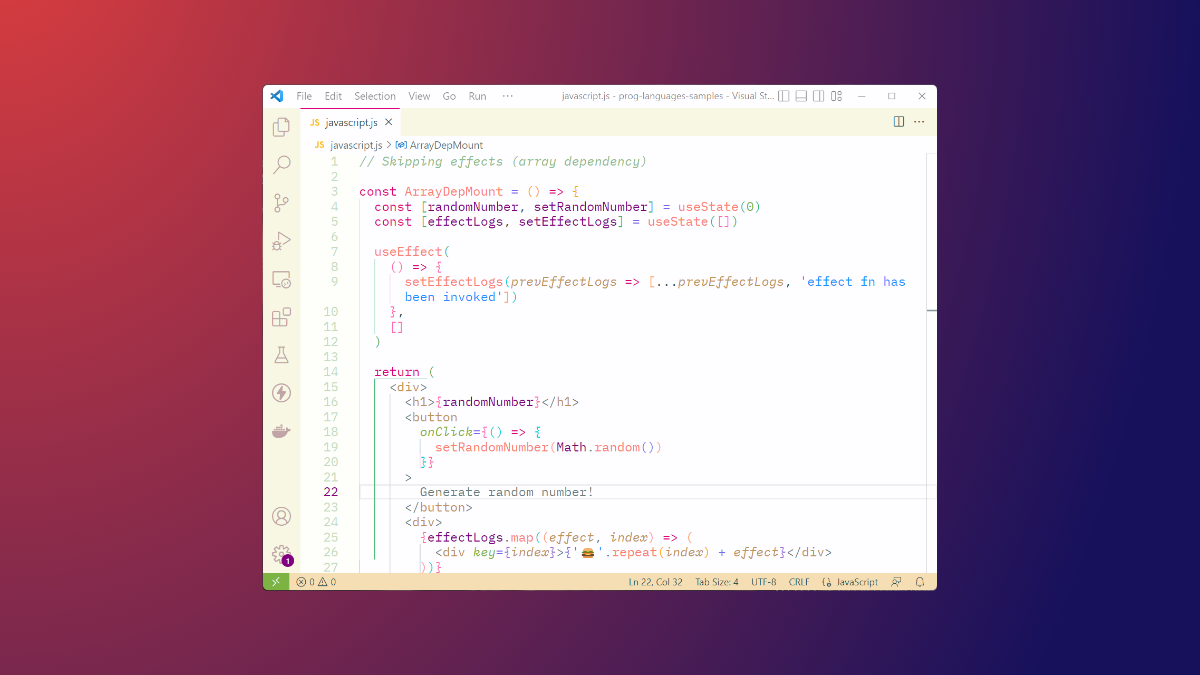
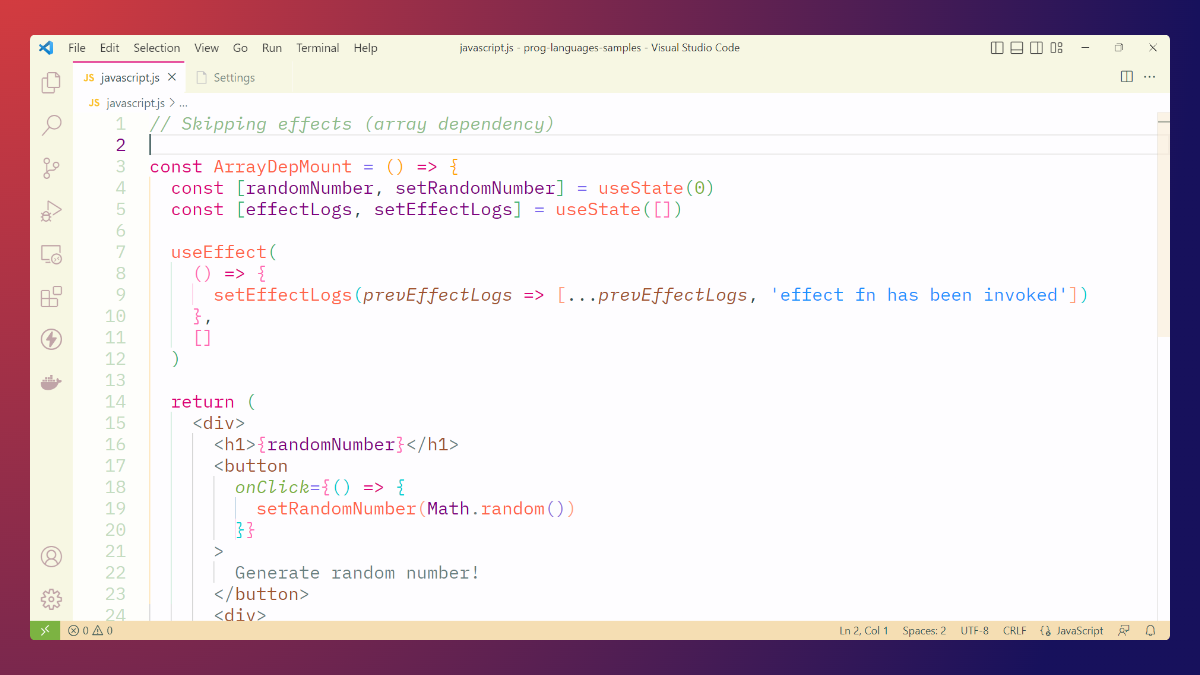
v. 1.1.0

diff --git a/README.md b/README.md
@@ -14,6 +14,11 @@ All notable changes to this project will be documented in this section.
 The format is based on [Keep a Changelog](http://keepachangelog.com/en/1.0.0/)
 and this project adheres to [Semantic Versioning](http://semver.org/spec/v2.0.0.html).
 
+### [1.1.0] - 2022-12-15
+#### Changed
+- Sharper color shades for identifiers and methods.
+- Demo screenshot updated accordingly.
+
 ### [1.0.1] - 2022-12-08
 #### Changed
 - Better theme demo screenshot.
